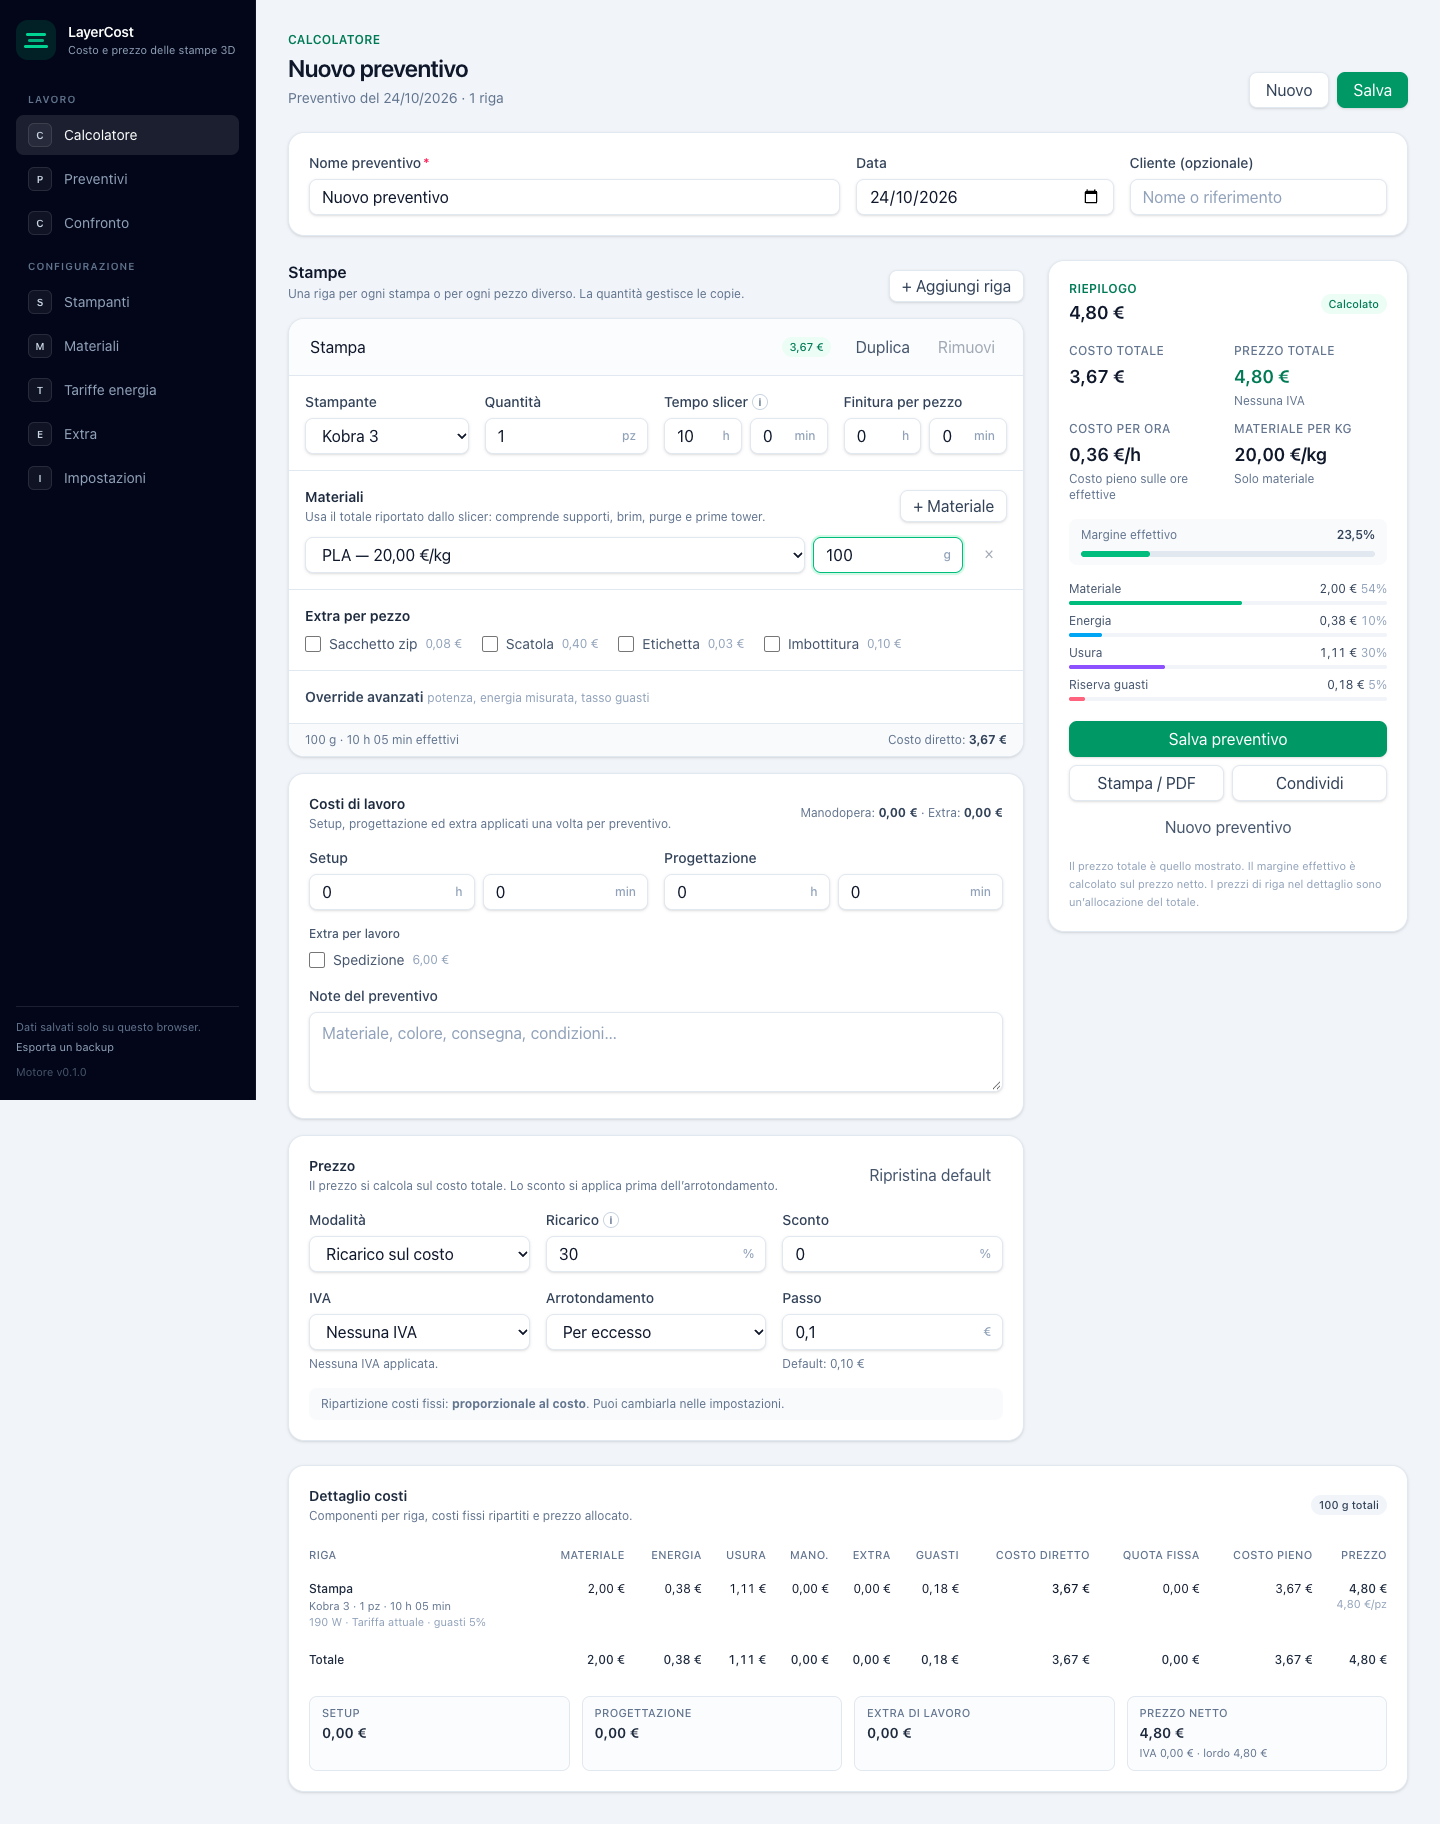
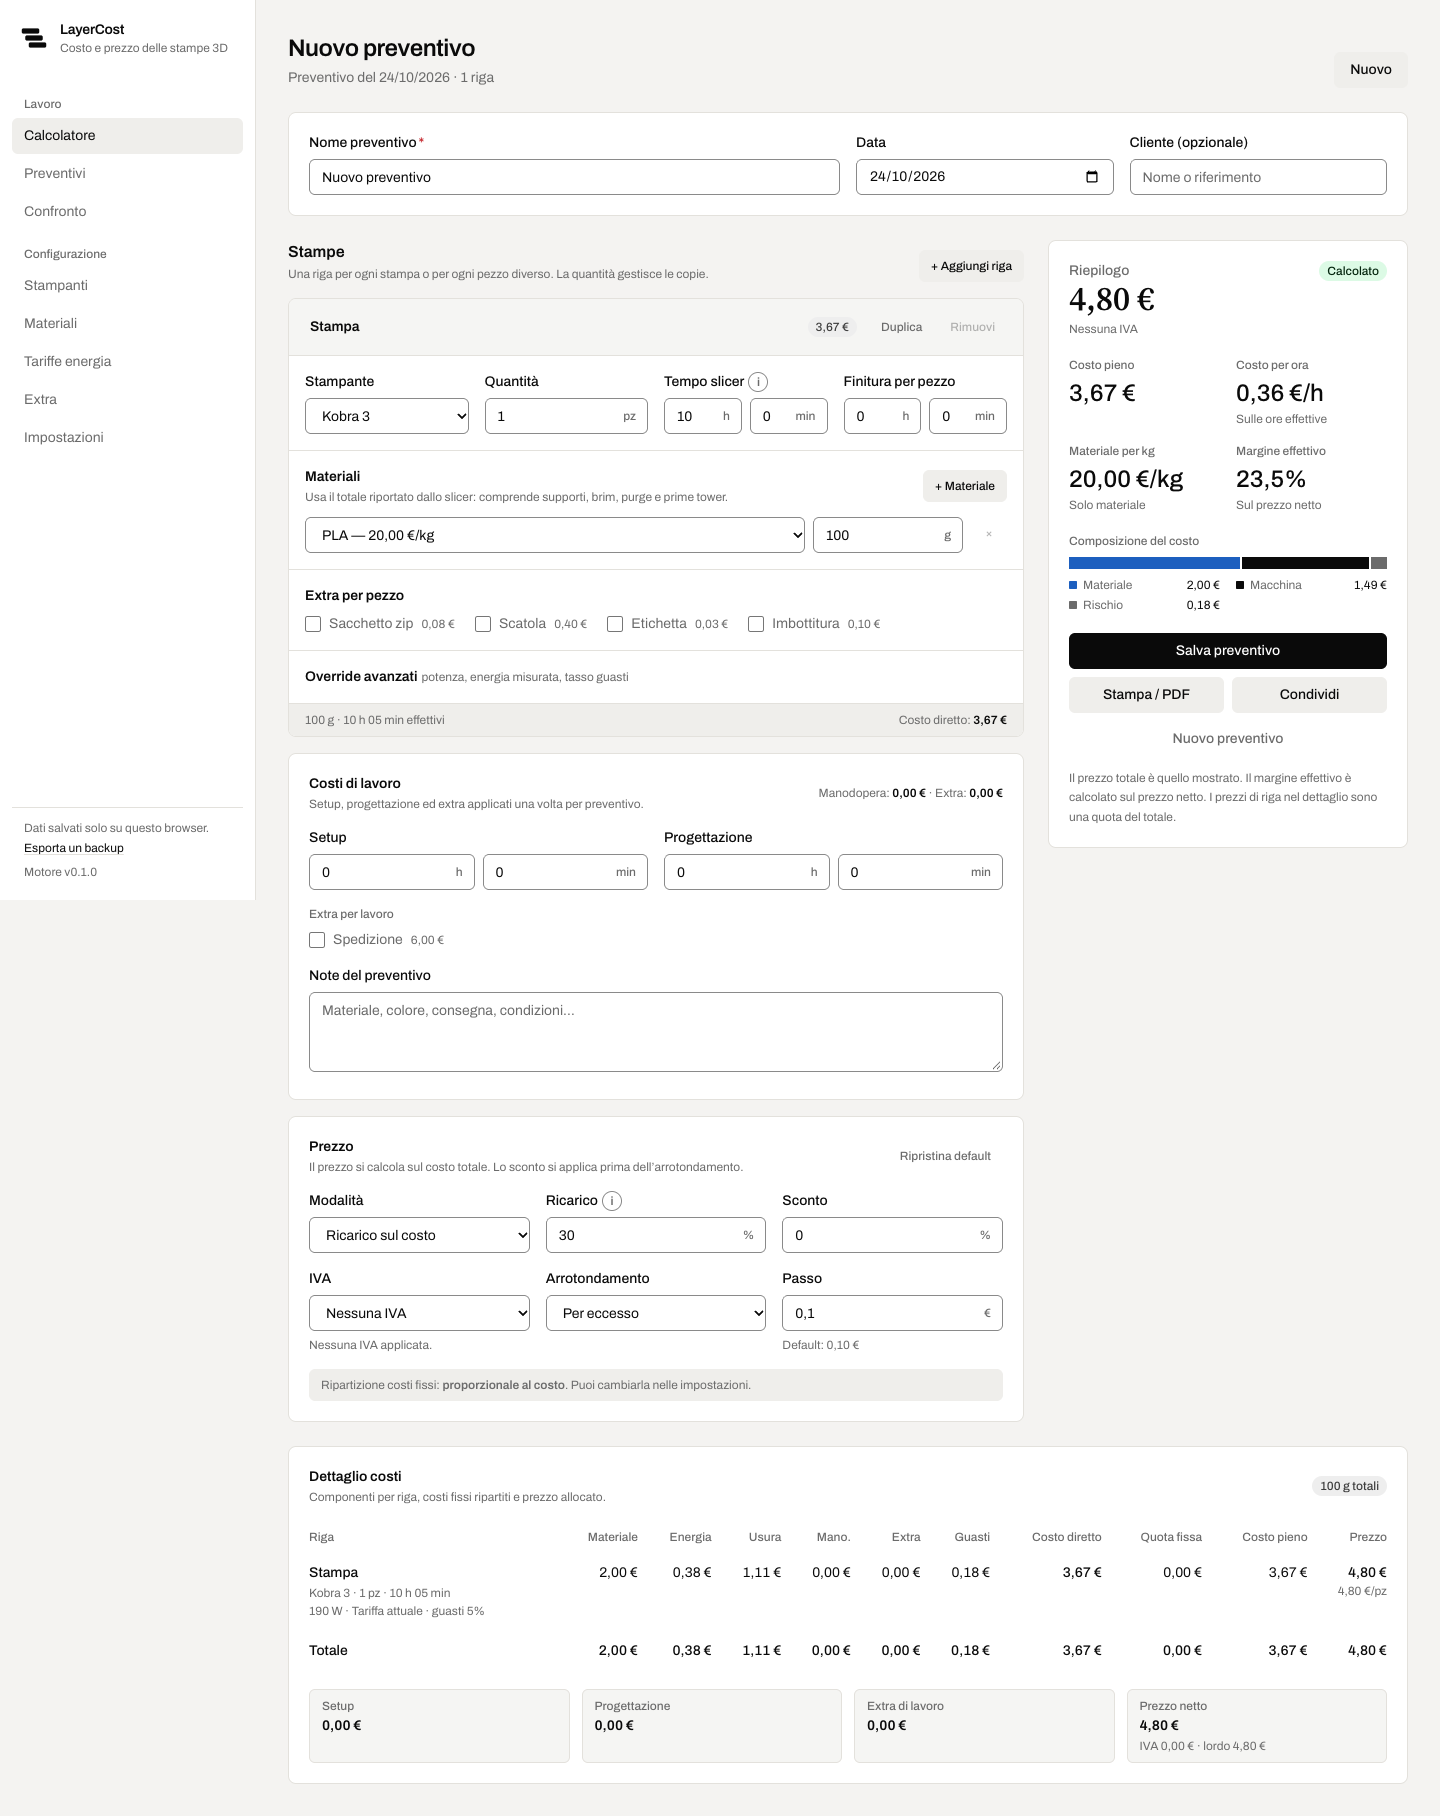
docs: prepare T4.4 handoff
Point the reading order to the design direction and design system, refresh README/PLAN/testing status, add the T4.4 wireframe references and update the calculator screenshot.

diff --git a/docs/engineering/testing.md b/docs/engineering/testing.md
@@ -1,18 +1,18 @@
 # Testing
 
-**Stato:** v0.1 — 16 test unitari + 3 E2E
+**Stato:** v0.1 — 21 test unitari + 5 E2E
 
 ---
 
 ## 1. Strategia
 
-| Livello  | Strumento           | Cosa copre                                            |
-| -------- | ------------------- | ----------------------------------------------------- |
-| Unit     | Vitest              | Unità, arrotondamenti, formule, prezzi                |
-| Property | fast-check          | Invarianti di ripartizione e scala                    |
-| Dati     | Vitest              | Seed contro schema, versioni future, payload invalidi |
-| E2E      | Playwright          | Calcola → salva → ricarica → condivide → importa      |
-| A11y     | manuale + checklist | Label, focus, tastiera, contrasto                     |
+| Livello  | Strumento           | Cosa copre                                                      |
+| -------- | ------------------- | --------------------------------------------------------------- |
+| Unit     | Vitest              | Unità, arrotondamenti, formule, prezzi                          |
+| Property | fast-check          | Invarianti di ripartizione e scala                              |
+| Dati     | Vitest              | Seed contro schema, versioni future, payload invalidi           |
+| E2E      | Playwright          | Calcola → salva → ricarica → condivide → importa; design system |
+| A11y     | manuale + checklist | Label, focus, tastiera, contrasto; test token/focus             |
 
 ## 2. Comandi
 
@@ -29,7 +29,9 @@ Playwright usa Chrome locale (`channel: 'chrome'`); in CI usa Chromium.
 
 - `src/domain/cost.test.ts` — 13 test: conversioni, arrotondamenti, allocazione, esempio 1, lotto, pricing, guasti, tariffe, multi-materiale, proprietà.
 - `src/data/storage.test.ts` — 3 test: seed valido, schema futuro rifiutato, payload invalido rifiutato.
+- `src/lib/cost-bands.test.ts` — 5 test: somma esatta delle bande, ordine, lavoro, zero, accorpamento sotto il 3%.
 - `tests/e2e/smoke.spec.ts` — 3 test: calcolo/salvataggio/reload, condivisione/import in contesto pulito, navigazione sezioni.
+- `tests/e2e/design-system.spec.ts` — 2 test: token e font caricati; bordo campo, altezza touch, focus, primario, overflow a 375 e menu mobile.
 
 ## 4. Golden case
 
@@ -42,14 +44,14 @@ I numeri di riferimento sono in `docs/domain/golden-cases.md` e devono coincider
 
 ## 5. Cosa non è coperto
 
-- Test visuali/regressione screenshot.
+- Regressione screenshot pixel-perfect: i test design verificano token, font, focus e overflow, non fanno snapshot visivi.
 - Audit `axe` automatico.
 - Stampa/PDF reale su più browser.
 - Import via file chooser (E2E).
 - Deploy Vercel (verifica manuale).
 - Carico con centinaia di preventivi.
 
-Sono candidati per la fase 4 o per il backlog.
+Sono candidati per T4.4/T4.5 o per il backlog.
 
 ## 6. CI
 
@@ -59,12 +61,13 @@ Sono candidati per la fase 4 o per il backlog.
 - `npm run check`;
 - `npm run build` + Playwright con Chromium.
 
-Stato al 23/10/2026: **verde su GitHub** per i job `check` ed `e2e`.
+Stato al 24/10/2026: **verde su GitHub** per i job `check` ed `e2e` (21 unitari, 5 E2E).
 
 ## 7. Come aggiungere un test
 
 - Per una formula: aggiungi un caso in `cost.test.ts` e il golden case nel doc.
 - Per uno schema: aggiungi un fixture valido/invalido in `storage.test.ts`.
 - Per un flusso UI: aggiungi un E2E in `tests/e2e`.
+- Per un token o un componente: aggiungi un test in `tests/e2e/design-system.spec.ts` (font, token, focus, touch, overflow).
 - Non usare snapshot fragili per i numeri: asserisci i valori espliciti.
 - Per le proprietà, limita i range per mantenere i test veloci.

diff --git a/README.md b/README.md
@@ -76,24 +76,26 @@ Sono possibili anche GitHub Pages, Netlify e Cloudflare Pages; vedi `docs/engine
 
 ## Documentazione
 
-| File                          | Contenuto                               |
-| ----------------------------- | --------------------------------------- |
-| `STATUS.md`                   | Stato attuale, test, deploy e limiti    |
-| `PLAN.md`                     | Visione, scope, architettura, roadmap   |
-| `TASKS.md`                    | Task e stato di avanzamento             |
-| `AGENTS.md`                   | Regole per il coding agent              |
-| `docs/domain/cost-model.md`   | Specifica normativa del calcolo         |
-| `docs/domain/data-model.md`   | Schema e invarianti                     |
-| `docs/domain/golden-cases.md` | Esempi numerici e test                  |
-| `docs/domain/sources.md`      | Fonti su stampanti e potenze            |
-| `docs/engineering/`           | Architettura, persistenza, test, deploy |
-| `docs/design/ui-brief.md`     | Requisiti per la fase design            |
-| `docs/adr/`                   | 14 decisioni architetturali             |
+| File                           | Contenuto                               |
+| ------------------------------ | --------------------------------------- |
+| `STATUS.md`                    | Stato attuale, test, deploy e limiti    |
+| `PLAN.md`                      | Visione, scope, architettura, roadmap   |
+| `TASKS.md`                     | Task e stato di avanzamento             |
+| `AGENTS.md`                    | Regole per il coding agent              |
+| `docs/domain/cost-model.md`    | Specifica normativa del calcolo         |
+| `docs/domain/data-model.md`    | Schema e invarianti                     |
+| `docs/domain/golden-cases.md`  | Esempi numerici e test                  |
+| `docs/domain/sources.md`       | Fonti su stampanti e potenze            |
+| `docs/engineering/`            | Architettura, persistenza, test, deploy |
+| `docs/design/ui-brief.md`      | Requisiti per la fase design            |
+| `docs/design/directions.md`    | Direzioni e scelta visiva               |
+| `docs/design/design-system.md` | Token, componenti, accessibilità        |
+| `docs/adr/`                    | 15 decisioni architetturali             |
 
 ## Stato
 
 - **MVP funzionale:** fasi 0–3 del piano.
-- **Prossimo:** redesign UI con la skill di design (fase 4).
+- **Design:** T4.1–T4.3 chiusi (direzione A — Strato, design system); prossimo T4.4, redesign schermate.
 - **Fuori v1:** sync cloud, magazzino bobine, import slicer, PWA, inglese.
 - **Repo GitHub:** https://github.com/doublelayerprints/layercost (privata).
 - **CI:** verde su GitHub (`check` + `e2e`).

diff --git a/PLAN.md b/PLAN.md
@@ -1,6 +1,6 @@
 # LayerCost — Piano di prodotto e tecnico
 
-**Stato:** MVP funzionale implementato (fasi 0–3); CI verde su GitHub; deploy Vercel live; design da fare
+**Stato:** MVP funzionale implementato (fasi 0–3); CI verde su GitHub; deploy Vercel live; direzione e design system fatti, redesign schermate da fare
 **Data:** 23 ottobre 2026
 **Lingua:** UI e documentazione in italiano; codice e identificatori in inglese
 **Decisioni già prese:** nome **LayerCost**; local-first con sincronizzazione rimandata; preventivi snapshot con aggiornamento esplicito su copia; scope v1 completo; costo + prezzo; deploy su Vercel
@@ -8,7 +8,7 @@
 ## Stato implementazione
 
 - **Fatto:** motore di calcolo, configurazione, persistenza locale, export/import, calcolatore singolo/lotto, confronto stampanti, storico con snapshot, link condivisibile, stampa/PDF, test unitari e E2E, CI verde su GitHub, repo `doublelayerprints/layercost`, deploy live su https://layercost.vercel.app, documentazione e ADR.
-- **Da fare:** redesign UI con la skill di design, audit accessibilità automatico, eventuale sincronizzazione cloud.
+- **Da fare:** redesign schermate (T4.4), audit accessibilità automatico, eventuale sincronizzazione cloud.
 - **Non fatto:** import diretto da slicer, magazzino bobine, PWA, inglese.
 
 ---
@@ -386,6 +386,8 @@ Il progetto adotta una documentazione "docs-as-code": ogni decisione, formula e 
 | `docs/engineering/deployment.md`   | Vercel e alternative                                  |
 | `docs/engineering/conventions.md`  | Stile, naming, commit, PR                             |
 | `docs/design/ui-brief.md`          | Requisiti UI per la fase design                       |
+| `docs/design/directions.md`        | Direzioni visive e scelta (ADR-0015)                  |
+| `docs/design/design-system.md`     | Token, componenti, accessibilità e stampa             |
 | `docs/adr/0001…`                   | Decisioni architetturali                              |
 | `CHANGELOG.md`                     | Versioni                                              |
 

diff --git a/AGENTS.md b/AGENTS.md
@@ -28,7 +28,7 @@ Prima di toccare il codice:
 7. `docs/domain/data-model.md`
 8. gli ADR rilevanti in `docs/adr/`
 9. `docs/engineering/architecture.md`, `persistence.md`, `testing.md`, `deployment.md`
-10. `docs/design/ui-brief.md` solo per task UI
+10. `docs/design/ui-brief.md`, `docs/design/directions.md`, `docs/design/design-system.md` solo per task UI
 
 Se due documenti si contraddicono, fermati e segnala: non scegliere a caso.
 
@@ -251,3 +251,5 @@ Scrivi il blocco in `TASKS.md` e spiega cosa serve per sbloccarlo.
 - `docs/adr/` — decisioni.
 - `docs/engineering/deployment.md` — Vercel e alternative.
 - `docs/design/ui-brief.md` — requisiti per la fase design.
+- `docs/design/directions.md` — direzioni e scelta visiva.
+- `docs/design/design-system.md` — token, componenti, accessibilità e stampa.

diff --git a/STATUS.md b/STATUS.md
@@ -92,7 +92,7 @@ npm run test:e2e
 ## 5. Deploy
 
 - **Live:** https://layercost.vercel.app
-- Progetto Vercel collegato alla repo GitHub; il commit `e625454` ha ricevuto lo status Vercel “Deployment has completed”.
+- Progetto Vercel collegato alla repo GitHub; l'ultimo deploy verificato è il commit `ba8ec15` (T4.3), con status Vercel “Deployment has completed”.
 - `vercel.json` configurato (framework Vite, output `dist`, header di sicurezza).
 - Deploy automatico su push su `main` (verificato dallo status check Vercel).
 - Header verificati: `X-Content-Type-Options`, `Referrer-Policy`, `Permissions-Policy`, `X-Robots-Tag: noindex`.

diff --git a/TASKS.md b/TASKS.md
@@ -692,7 +692,10 @@ Un task è chiuso solo se:
 **Stato:** `[ ]`
 
 - Calcolatore, risultati, preventivi, anagrafiche, impostazioni, confronto, share.
+- Dettagli in `docs/design/design-system.md` §8; wireframe in `docs/design/directions.md` §3.4 e §4.4.
+- Calcolatore 7/12 + 5/12 con risultato sticky a ≥ 1024 px; stack e `Price` nel dettaglio e in stampa; tabelle mobile; una sola azione primaria per schermata.
 - Responsive; dark mode fuori scope v1 (ADR-0015).
+- Eseguire il gate visivo `inspect.mjs --app` a 1440/768/390 e la critique.
 
 **Accettazione:** tutti i flussi funzionano; test E2E verdi; nessuna regressione nei calcoli.
 
